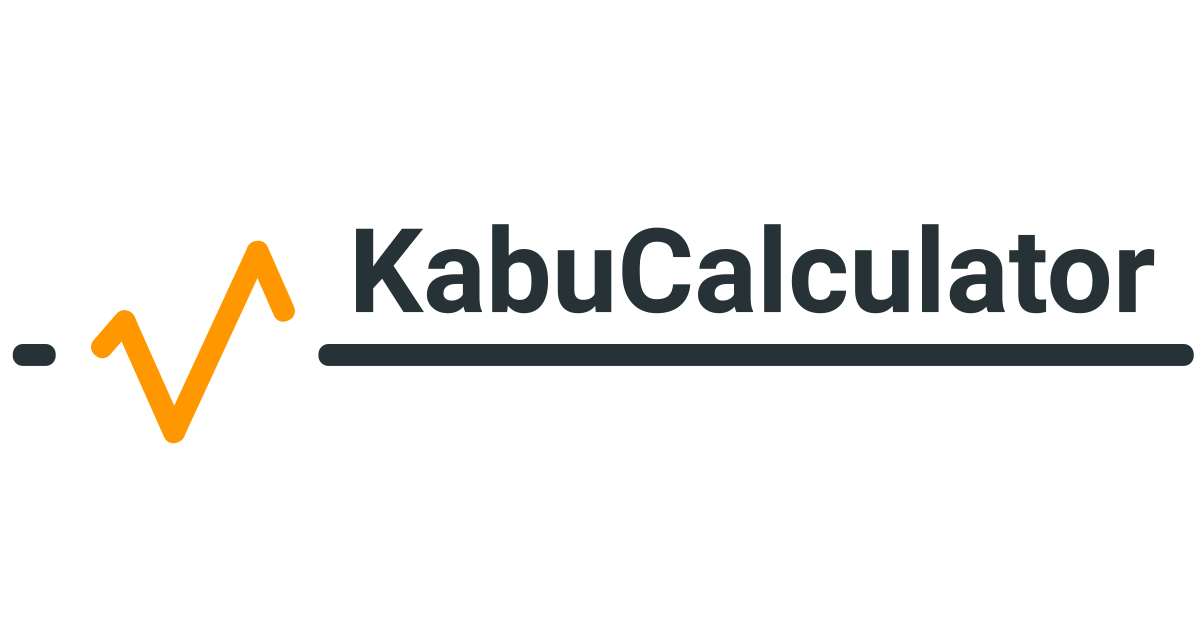
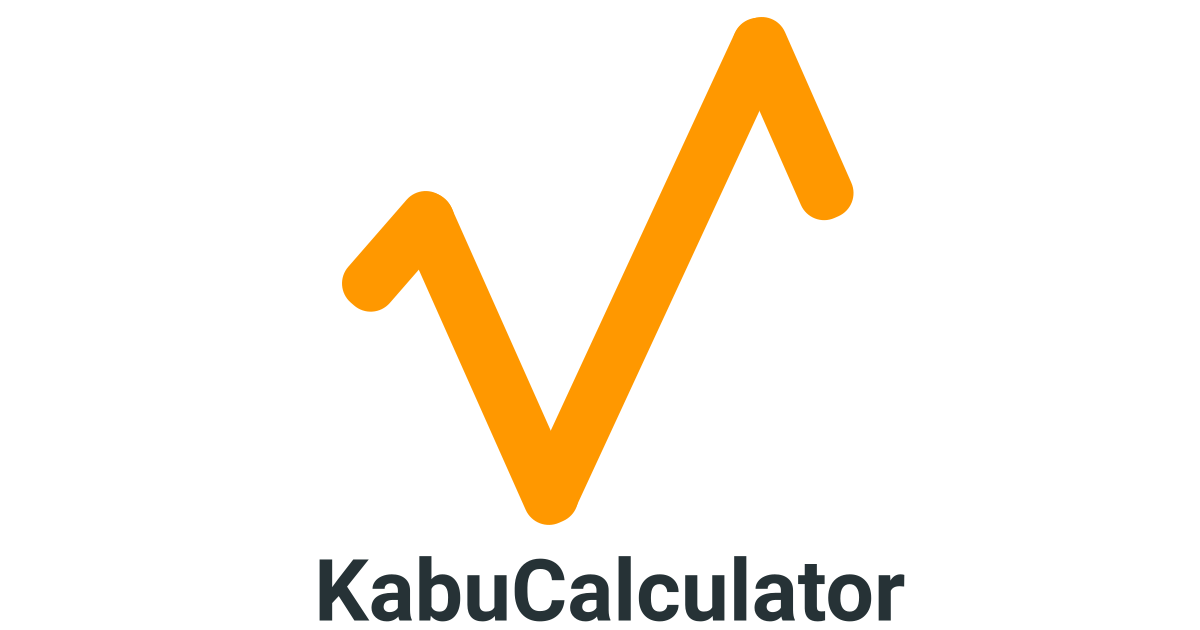
ogpの画像ファイルをひとつに統一

Changed region(s): [[0.2467, 0.0302, 1.0, 0.8444], [0.2467, 0.8746, 0.7708, 0.9952], [0.0, 0.3921, 0.2467, 0.7238]]

diff --git a/appserver/app/helpers/application_helper.rb b/appserver/app/helpers/application_helper.rb
@@ -6,6 +6,7 @@ module ApplicationHelper
     {
       site: 'KabuCalculator',
       title: 'KabuCalculator',
+      image: 'https://kabucalculator.ml/ogp/ogp.png',
       reverse: true,
       charset: 'utf-8',
       description: '統計指標に基づいた株式比較、抽出ツール',
@@ -15,16 +16,16 @@ module ApplicationHelper
         type: 'website',
         site_name: :site,
         description: :description,
-        image: 'https://kabucalculator.ml/ogp/ogp.png',
-        url: 'https://kabucalculator.ml'
+        image: :image,
+        url: 'https://kabucalculator.ml/'
       },
       twitter: {
         title: :title,
         card: 'summary',
         site: '@kabucalculator',
         description: :description,
-        image: 'https://kabucalculator.ml/ogp/ogp-twitter.png',
-        domain: 'https://kabucalculator.ml'
+        image: :image,
+        domain: 'https://kabucalculator.ml/'
       }
     }
   end
